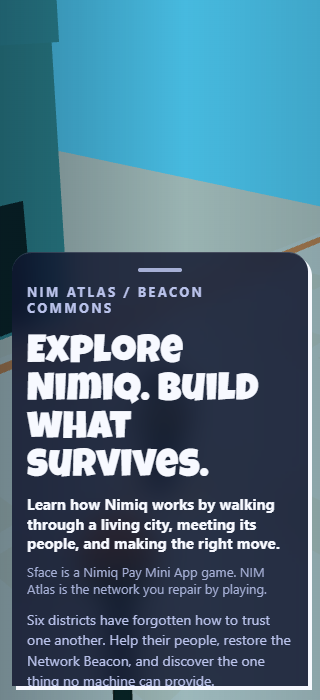
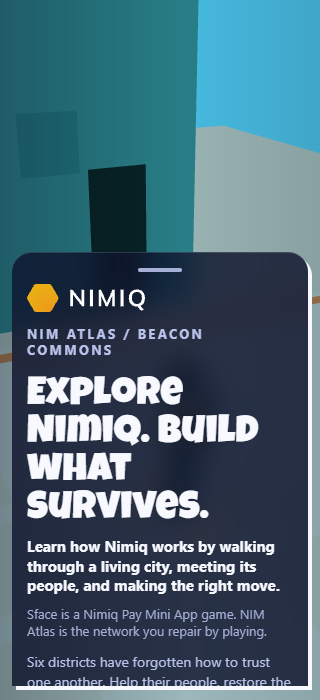
feat(atlas): official Nimiq mark on the HUD, splash, title and both payment screens

diff --git a/tests/atlas-nimiq-brand.test.ts b/tests/atlas-nimiq-brand.test.ts
@@ -1,0 +1,85 @@
+import { readFileSync } from 'node:fs';
+import { describe, expect, it } from 'vitest';
+
+const signet = readFileSync(new URL('../public/atlas/brand/nimiq-signet.svg', import.meta.url), 'utf8');
+const lockup = readFileSync(new URL('../public/atlas/brand/nimiq-logo-horizontal.svg', import.meta.url), 'utf8');
+const mark = readFileSync(new URL('../src/atlas/ui/nimiq-mark.ts', import.meta.url), 'utf8');
+const app = readFileSync(new URL('../src/atlas/app/atlas-app.ts', import.meta.url), 'utf8');
+const sheet = readFileSync(new URL('../src/atlas/atlas.css', import.meta.url), 'utf8');
+
+/*
+ * Nimiq appeared on none of the sixteen shipped screenshots, including the
+ * payment review, which is the one screen where a player is being asked to
+ * approve a real transfer. These assets are the official files from
+ * github.com/nimiq/designs, downloaded rather than redrawn, because an
+ * approximated mark shown to the Nimiq team is worse than no mark.
+ */
+describe('Nimiq brand presence', () => {
+  it('ships the official assets rather than a redrawn approximation', () => {
+    for (const [name, source] of [['signet', signet], ['lockup', lockup]] as const) {
+      expect(source.slice(0, 200), `${name} is not an SVG`).toContain('<svg');
+      // The official radial gradient. If these stops change, the file is no
+      // longer Nimiq's artwork.
+      expect(source.toLowerCase(), `${name} lost the official gradient`).toContain('#ec991c');
+      expect(source.toLowerCase(), `${name} lost the official gradient`).toContain('#e9b213');
+    }
+  });
+
+  it('keeps the two files referenced rather than inlined, because their ids collide', () => {
+    /*
+     * Both official files declare id="radial-gradient" and a .cls-1 class. Two
+     * inlined copies in one document would share those, so the second one's
+     * gradient would resolve to the first one's definition. Referencing them
+     * through <img> keeps each in its own document.
+     */
+    expect(signet).toContain('id="radial-gradient"');
+    expect(lockup).toContain('id="radial-gradient"');
+    expect(mark, 'the mark helper inlines SVG markup').not.toContain('<svg');
+    expect(app, 'the app inlines Nimiq SVG markup').not.toContain('radial-gradient');
+  });
+
+  it('defines the asset paths in exactly one place', () => {
+    expect(mark).toContain('/atlas/brand/nimiq-signet.svg');
+    expect(mark).toContain('/atlas/brand/nimiq-logo-horizontal.svg');
+    // Everything else asks the helper, so the paths cannot drift apart.
+    expect(app, 'the app hardcodes a brand asset path').not.toContain('/atlas/brand/');
+  });
+
+  it('never recolours or dims the mark', () => {
+    // Nimiq's guidelines govern this artwork, and the product's own rule is
+    // that magenta is the only accent. The resolution is to leave the mark in
+    // its official colours and not treat it as a UI accent at all.
+    const rule = sheet.slice(sheet.indexOf('.atlas-nimiq-mark'), sheet.indexOf('}', sheet.indexOf('.atlas-nimiq-mark')));
+    expect(rule.length, '.atlas-nimiq-mark has no rule').toBeGreaterThan(0);
+    expect(rule, 'the mark is filtered').not.toContain('filter:');
+    expect(rule, 'the mark is tinted').not.toContain('background-color:');
+    expect(rule).not.toMatch(/opacity:\s*0?\.[0-8]/);
+  });
+
+  it('carries an accessible name that says Nimiq', () => {
+    expect(mark).toContain('alt');
+    expect(mark).toContain('Nimiq');
+  });
+
+  it('places the mark on the four surfaces the design requires', () => {
+    // Persistent HUD mark, on both play screens through the shared brand
+    // button; the loading splash; the title screen; and the payment review.
+    expect(app, 'no mark in the HUD brand').toMatch(/private createCityBrand[\s\S]{0,900}?createNimiqMark/);
+    expect(app, 'no mark on the loading splash').toMatch(/private renderLandingSplash[\s\S]{0,1200}?createNimiqMark/);
+    expect(app, 'no mark on the title screen').toMatch(/private renderWelcome[\s\S]{0,2000}?createNimiqMark/);
+    expect(app, 'no mark on the payment review').toMatch(/private createCityPaymentReview[\s\S]{0,2000}?createNimiqMark/);
+  });
+
+  it('marks the standalone lantern payment screen too', () => {
+    /*
+     * There are two payment surfaces, not one. createCityPaymentReview is the
+     * panel over the 3D city; renderLantern is the full screen the shipped
+     * screenshots actually show. Both list NETWORK, RECIPIENT and AMOUNT, and
+     * wiring only the first left the captured payment screen unbranded.
+     */
+    const lantern = app.slice(app.indexOf('private renderLantern'));
+    const body = lantern.slice(0, lantern.indexOf('private renderCurrentLanternSurface'));
+    expect(body, 'the lantern screen has no Nimiq lockup').toContain("createNimiqMark('lockup')");
+    expect(body, 'the lantern network row has no mark').toContain('networkValueCell');
+  });
+});

diff --git a/src/atlas/app/atlas-app.ts b/src/atlas/app/atlas-app.ts
@@ -1,3 +1,4 @@
+import { createNimiqMark } from '../ui/nimiq-mark';
 import { createAtlasState } from '../../../shared/atlas/state';
 import { BEACON_SEALS, createRouteRun, recoverRouteRun, routeLesson, routeProgress, routeRestoration, routeTarget, routeWorld, stepRouteRun, type RouteAction, type RouteRun } from '../../../shared/atlas/adventures/route-rescue';
 import { createEvidenceChoices, createRouteCard } from '../ui/route-rescue';
@@ -318,6 +319,7 @@ export class AtlasApp {
       this.ui.append(panel);
       return;
     }
+    panel.append(createNimiqMark('lockup'));
     const eyebrow = element('p', 'atlas-eyebrow', 'NIM ATLAS / BEACON COMMONS');
     const heading = element('h1', '', 'Explore Nimiq. Build what survives.');
     const tagline = element('p', 'atlas-tagline', 'Learn how Nimiq works by walking through a living city, meeting its people, and making the right move.');
@@ -410,6 +412,7 @@ export class AtlasApp {
   private renderLandingSplash(): HTMLElement {
     const splash = element('div', 'atlas-landing-splash');
     const state = this.cityLoadState === 'unavailable';
+    splash.append(createNimiqMark('lockup'));
     splash.append(
       element('p', 'atlas-eyebrow', 'SFACE / NIM ATLAS'),
       element('h1', '', state ? 'Reconnect the city.' : 'Entering Beacon Commons.'),
@@ -943,7 +946,12 @@ export class AtlasApp {
     brand.className = 'atlas-brand';
     brand.setAttribute('aria-label', ariaLabel);
     brand.addEventListener('click', this.returnHome);
-    brand.append(element('span', '', 'NIM ATLAS'), element('small', '', locationLabel));
+    /*
+     * The persistent Nimiq mark. Decorative, because the button already
+     * carries an aria-label and a second "Nimiq" would be announced on every
+     * screen the HUD appears on.
+     */
+    brand.append(createNimiqMark('signet', { decorative: true }), element('span', '', 'NIM ATLAS'), element('small', '', locationLabel));
     return brand;
   }
 
@@ -1037,7 +1045,7 @@ export class AtlasApp {
     const review = element('dl', 'atlas-city-payment-review');
     review.setAttribute('aria-label', 'Exact payment fields');
     review.append(
-      element('dt', '', 'NETWORK'), element('dd', '', request.network),
+      element('dt', '', 'NETWORK'), this.networkValueCell(request.network),
       element('dt', '', 'RECIPIENT'), element('dd', '', request.recipient),
       element('dt', '', 'AMOUNT'), element('dd', '', formatLanternAmount(request.valueLuna)),
       element('dt', '', 'FEE'), element('dd', '', fee),
@@ -1047,6 +1055,12 @@ export class AtlasApp {
         : 'Approval gives permission to request this payment. It does not prove the shop received NIM.'),
     );
     return review;
+  }
+
+  private networkValueCell(network: string): HTMLElement {
+    const value = element('dd', 'atlas-payment-network');
+    value.append(createNimiqMark('signet', { decorative: true }), element('span', '', network));
+    return value;
   }
 
   private advancePhysicalLantern(action: LastLanternAction): void {
@@ -1830,6 +1844,9 @@ export class AtlasApp {
     panel.setAttribute('aria-label', 'The Last Lantern local practice');
     panel.append(
       this.screenNav('Pay Harbor'),
+      // This is the screen a player approves a transfer on, so it carries the
+      // full lockup rather than the signet alone.
+      createNimiqMark('lockup'),
       element('p', 'atlas-eyebrow', 'PAY HARBOR / THE LAST LANTERN'),
       element('h1', '', 'Keep the harbor open'),
       element('p', 'atlas-trial-copy', this.selectedRole === 'builder' ? 'Repair Mara\'s payment route: provider request, exact Lunas, then authoritative confirmation.' : 'Walk through Mara\'s shop, review a NIM payment, and carry the lantern to the harbor tower.'),
@@ -1846,7 +1863,7 @@ export class AtlasApp {
       const requestValue = this.currentLanternRequest();
       const request = element('dl', 'atlas-payment-review');
       request.append(
-        element('dt', '', 'NETWORK'), element('dd', '', requestValue.network),
+        element('dt', '', 'NETWORK'), this.networkValueCell(requestValue.network),
         element('dt', '', 'RECIPIENT'), element('dd', '', requestValue.recipient),
         element('dt', '', 'AMOUNT'), element('dd', '', formatLanternAmount(requestValue.valueLuna)),
       );

diff --git a/src/atlas/atlas.css b/src/atlas/atlas.css
@@ -293,14 +293,44 @@ button:focus-visible, input:focus-visible, a:focus-visible, [tabindex]:focus-vis
  * button now, which restores the layout the grid was written for.
  */
 .atlas-topbar-actions { display: flex; gap: 6px; align-items: center; }
+/*
+ * Deliberately no grid placement for .atlas-city-topbar here.
+ *
+ * On the living-city shell that element is not a grid at all:
+ * src/atlas/ui/route-rescue.css redeclares it as `display: flex; flex-wrap:
+ * wrap` with `.atlas-brand { flex: 1 1 170px }`, so the brand grows and the
+ * action group wraps to a second line. Grid properties written against
+ * .atlas-topbar's `1fr auto auto` are inert on this screen, and three such
+ * declarations were measured doing nothing before being removed.
+ *
+ * Collapsing the bar to one row means deciding which stylesheet owns this
+ * element, which is a layout change the standing HUD decision freezes. Left
+ * alone on purpose.
+ */
 .atlas-hud-settings { position: absolute; top: 108px; right: 18px; z-index: 3; display: flex; flex-direction: column; gap: 6px; padding: 8px; border: 1px solid rgb(var(--atlas-ink-rgb) / .18); border-radius: var(--atlas-radius); background: var(--atlas-raised); backdrop-filter: var(--atlas-glass-blur); box-shadow: var(--atlas-glow); pointer-events: auto; }
 .atlas-hud-settings .atlas-pause { min-width: 132px; min-height: 44px; }
 /* display: flex above beats the user agent's [hidden] rule, so state it here. */
 .atlas-hud-settings[hidden] { display: none; }
 .atlas-brand, .atlas-integrity, .atlas-pause { border: 1px solid rgb(var(--atlas-ink-rgb) / .18); border-radius: var(--atlas-radius-pill); background: var(--atlas-raised); backdrop-filter: var(--atlas-glass-blur); color: var(--atlas-ink); box-shadow: var(--atlas-glow); }
-.atlas-brand { min-height: 52px; padding: 8px 16px; display: grid; align-content: center; text-align: left; cursor: pointer; }
-.atlas-brand span { font: 400 19px/1 AtlasDisplay, Georgia, serif; }
-.atlas-brand small { margin-top: 4px; font: 700 13px/1.25 system-ui, sans-serif; letter-spacing: .08em; }
+/*
+ * Nimiq's own artwork. Never filtered, tinted or faded: the product rule that
+ * magenta is the only accent is satisfied by treating this as a brand mark
+ * rather than a UI accent, not by recolouring someone else's logo. See
+ * src/atlas/ui/nimiq-mark.ts.
+ */
+.atlas-nimiq-mark { display: block; width: auto; height: 20px; flex: none; }
+.atlas-nimiq-mark[data-variant="lockup"] { height: 28px; margin: 0 0 14px; }
+
+.atlas-brand { min-height: 52px; padding: 8px 14px; display: grid; grid-template-columns: auto minmax(0, 1fr); column-gap: 9px; align-content: center; text-align: left; cursor: pointer; }
+.atlas-brand > .atlas-nimiq-mark { grid-column: 1; grid-row: 1 / span 2; align-self: center; height: 18px; }
+.atlas-brand > span { grid-column: 2; font: 400 19px/1 AtlasDisplay, Georgia, serif; }
+.atlas-brand > small { grid-column: 2; margin-top: 4px; font: 700 13px/1.25 system-ui, sans-serif; letter-spacing: .08em; }
+
+/* The mark sits beside the network name a player is asked to approve. Both
+ * payment surfaces use this cell: the panel over the city and the standalone
+ * lantern screen. */
+.atlas-payment-network { display: flex; align-items: center; justify-content: flex-end; gap: 6px; }
+.atlas-payment-network .atlas-nimiq-mark { height: 13px; }
 .atlas-integrity { min-height: 52px; padding: 0 9px; display: grid; place-items: center; font: 700 13px/1.25 system-ui, sans-serif; white-space: nowrap; }
 .atlas-pause { min-width: 52px; min-height: 52px; padding: 0 8px; font: 700 13px/1.25 system-ui, sans-serif; cursor: pointer; }
 .atlas-objective { width: min(100%, 520px); margin-top: 8px; padding: 10px 12px; border: 2px solid var(--atlas-ink); background: var(--atlas-ink); color: var(--atlas-paper); pointer-events: auto; }

diff --git a/src/atlas/ui/nimiq-mark.ts b/src/atlas/ui/nimiq-mark.ts
@@ -1,0 +1,53 @@
+/**
+ * The Nimiq brand mark, in one place.
+ *
+ * Nimiq appeared on none of the sixteen shipped screenshots, including the
+ * payment review, which is the one screen where a player is asked to approve a
+ * real transfer. These are the official files from github.com/nimiq/designs,
+ * downloaded rather than redrawn: an approximated mark shown to the Nimiq team
+ * is worse than no mark.
+ *
+ * Two rules this module exists to hold:
+ *
+ * 1. **Referenced, never inlined.** Both official files declare
+ *    `id="radial-gradient"` and a `.cls-1` class. Two inlined copies in one
+ *    document would share those ids, so the second mark's gradient would
+ *    resolve against the first one's definition. An `<img>` keeps each file in
+ *    its own document.
+ * 2. **Never recoloured.** The product's own rule is that magenta is the only
+ *    accent and orange is demoted to a warning role. The resolution is not to
+ *    tint Nimiq's artwork to fit, but to treat it as a brand mark rather than a
+ *    UI accent, and leave its official gradient alone.
+ */
+
+/** The hexagon signet alone, for tight spaces like the play HUD. */
+export const NIMIQ_SIGNET_SRC = '/atlas/brand/nimiq-signet.svg';
+
+/** Signet plus white wordmark, for dark glass panels. */
+export const NIMIQ_LOCKUP_SRC = '/atlas/brand/nimiq-logo-horizontal.svg';
+
+export type AtlasNimiqMarkVariant = 'signet' | 'lockup';
+
+/**
+ * Build a Nimiq mark image.
+ *
+ * `decorative` drops it from the accessibility tree, for the play HUD where the
+ * surrounding control already carries a label and a second "Nimiq" would just
+ * be noise a screen reader repeats on every screen.
+ */
+export function createNimiqMark(
+  variant: AtlasNimiqMarkVariant,
+  options: { readonly decorative?: boolean; readonly className?: string } = {},
+): HTMLImageElement {
+  const image = document.createElement('img');
+  image.className = options.className ? `atlas-nimiq-mark ${options.className}` : 'atlas-nimiq-mark';
+  image.dataset.variant = variant;
+  image.src = variant === 'signet' ? NIMIQ_SIGNET_SRC : NIMIQ_LOCKUP_SRC;
+  image.alt = options.decorative ? '' : variant === 'signet' ? 'Nimiq' : 'Built on Nimiq';
+  if (options.decorative) image.setAttribute('aria-hidden', 'true');
+  // The mark sits on first paint of the title and loading screens, so it is not
+  // lazy, but it must never block the frame either.
+  image.decoding = 'async';
+  image.draggable = false;
+  return image;
+}
